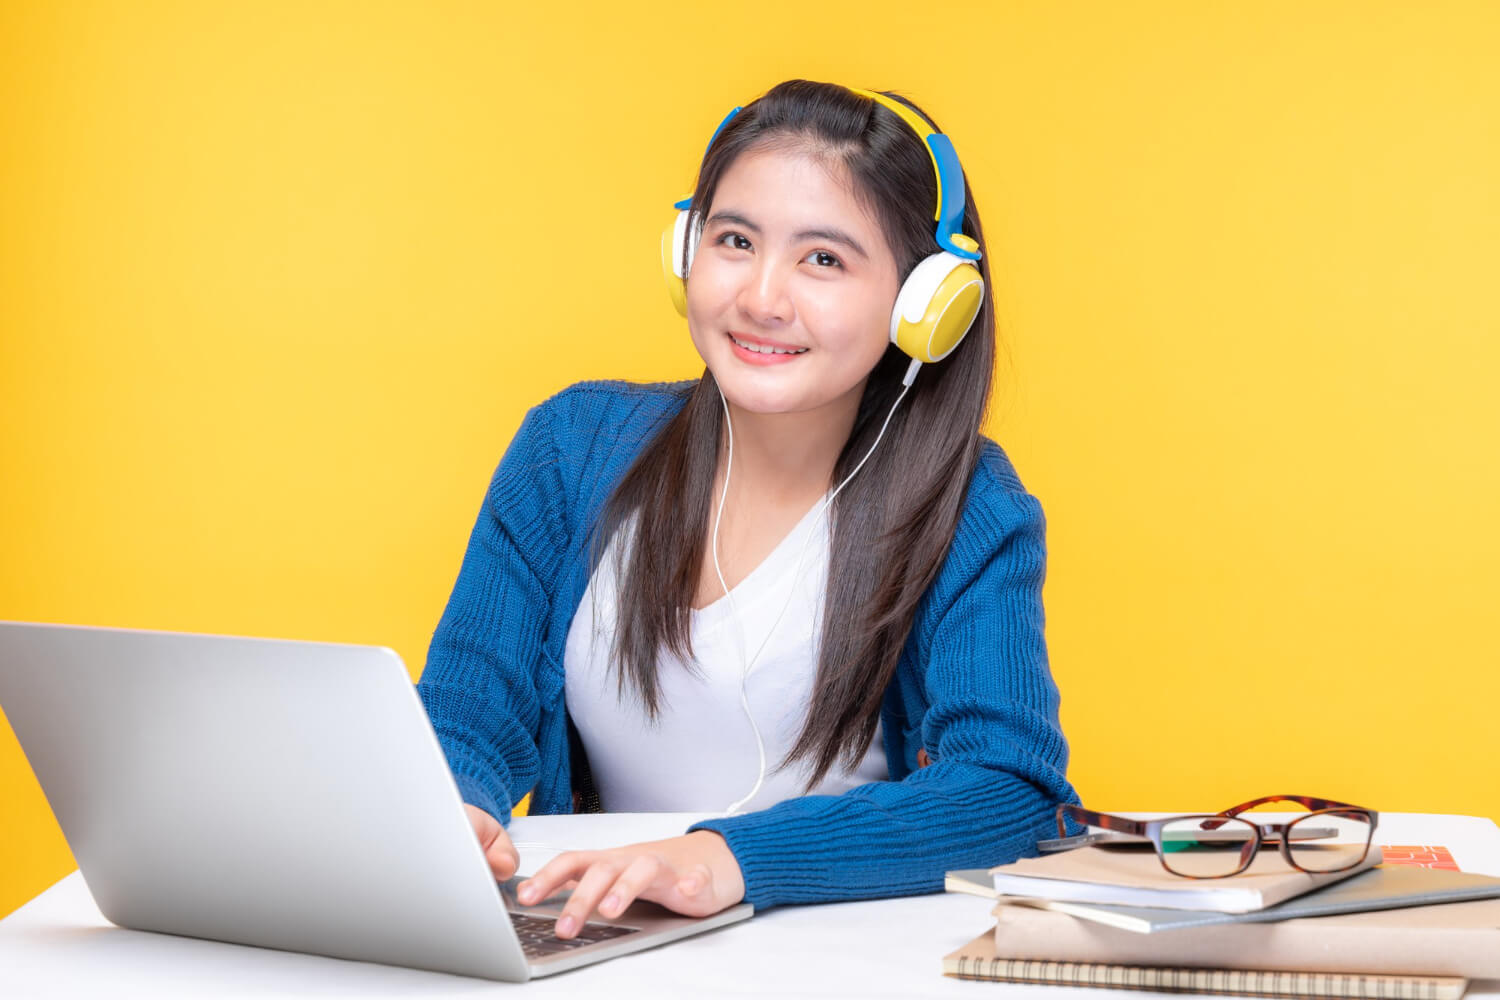
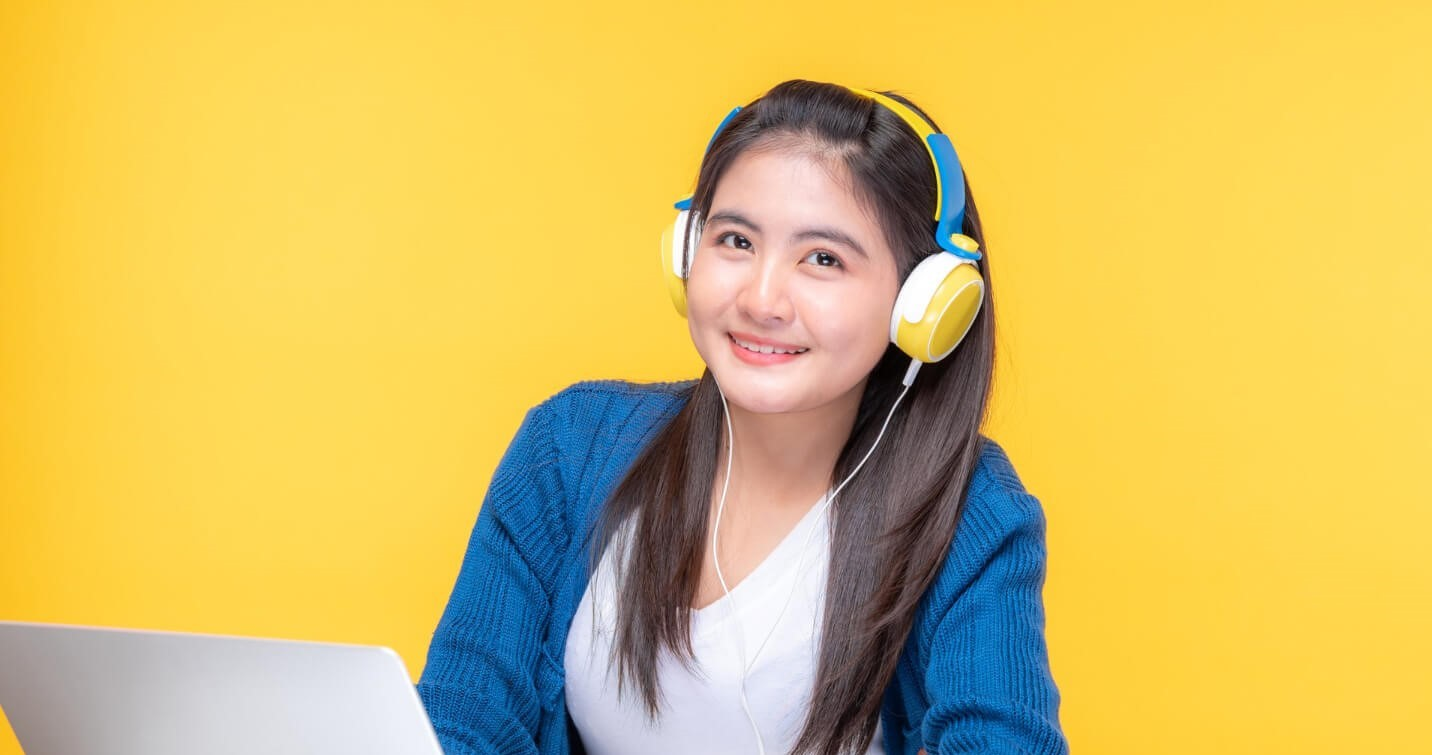
Header Part Done

diff --git a/index.html b/index.html
@@ -57,9 +57,10 @@
             <div id="carouselExampleControls" class="carousel slide" data-bs-ride="carousel">
                 <div class="carousel-inner">
                     <div class="container-fluid carousel-item active d-flex justify-content-center align-items-center">
-                        <img src="images/cover/cover-1.png" class="d-block w-100" alt="...">
-                        <div class="container carousel-caption w-75 d-md-block ">
-                            <h1 class="">Get Started Digital Learning</h1>
+                        <img src="images/cover/cover-1.png" class="d-block w-100 h-100" alt="...">
+                        <div
+                            class="container carousel-caption w-75  h-100 d-flex justify-content-center align-items-center flex-column">
+                            <h1>Get Started Digital Learning</h1>
                             <p>It is a long established fact that a reader will be distracted by the readable content of
                                 a
                                 page when looking at its layout.</p>
@@ -67,10 +68,26 @@
                         </div>
                     </div>
                     <div class="carousel-item">
-                        <img src="images/cover/cover-2.jpg" class="d-block w-100" alt="...">
+                        <img src="images/cover/cover-2.jpg" class="d-block w-100 h-100" alt="...">
+                        <div
+                            class="container carousel-caption w-75  h-100 d-flex justify-content-center align-items-center flex-column">
+                            <h1>Get Started Digital Learning</h1>
+                            <p>It is a long established fact that a reader will be distracted by the readable content of
+                                a
+                                page when looking at its layout.</p>
+                            <button class="btn btn-primary" type="submit">Get Started</button>
+                        </div>
                     </div>
                     <div class="carousel-item">
-                        <img src="images/cover/cover-3.jpg" class="d-block w-100" alt="...">
+                        <img src="images/cover/cover-3.jpg" class="d-block w-100 h-100" alt="...">
+                        <div
+                            class="container carousel-caption w-75  h-100 d-flex justify-content-center align-items-center flex-column">
+                            <h1>Get Started Digital Learning</h1>
+                            <p>It is a long established fact that a reader will be distracted by the readable content of
+                                a
+                                page when looking at its layout.</p>
+                            <button class="btn btn-primary" type="submit">Get Started</button>
+                        </div>
                     </div>
                 </div>
                 <button class="carousel-control-prev" type="button" data-bs-target="#carouselExampleControls"
@@ -87,10 +104,24 @@
         </section>
         <!--End Carousel -->
 
-
     </header>
     <!------------------------- 
         End The Header Part 
+    -------------------------->
+    <!------------------------- 
+        Start Populer Courses Part 
+    -------------------------->
+    <main>
+        <section class="container">
+            <h1>Discover Our Popular Courses</h1>
+            <p>It is a long established fact that a reader will be distracted by the readable content of a page when
+                looking at its layout.</p>
+
+        </section>
+
+    </main>
+    <!------------------------- 
+        End Populer Courses Part 
     -------------------------->
 
     <script src="https://cdn.jsdelivr.net/npm/bootstrap@5.2.0/dist/js/bootstrap.bundle.min.js"></script>

diff --git a/style.css b/style.css
@@ -1,5 +1,7 @@
 header img {
     filter: brightness(50%);
+    height: 700px;
+    width: 1320px;
 }
 
 .first-heading {
